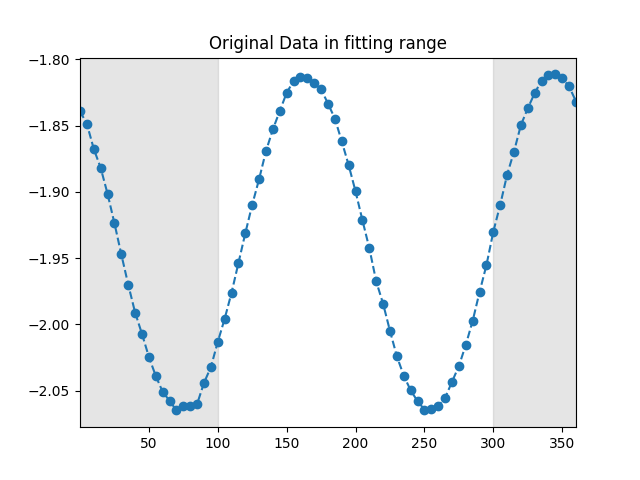
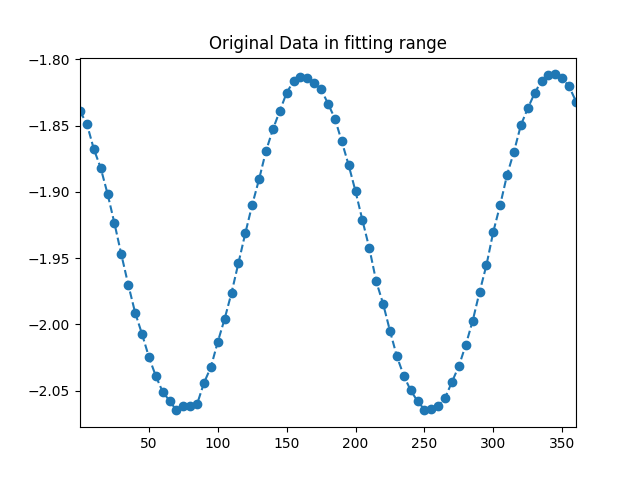
added control of averages to allow for more restricted ranges
issues with scale_est: tested it with latest 10/26 data and it was negative, which ruins phi estimates and messes with bounds.

Changed region(s): [[0.125, 0.125, 0.3438, 0.9062], [0.75, 0.125, 0.9062, 0.9062]]

diff --git a/Polarization_calc.py b/Polarization_calc.py
@@ -157,8 +157,19 @@ class pol_analysis:
             else:
                 #maxs
                 extrema[1].append(self.fit_data[i])
-        avgs = [np.mean(extrema[0]),np.mean(extrema[1])]
-        scale_est = avgs[0]+avgs[1]
+
+        # need to account for when there is not a minima or maxima in the range --> change how we assign avgs
+        if (len(extrema[0])) == 0:
+            # there were no minima in the range
+            avgs = [0, np.mean(extrema[1])]
+        elif (len(extrema[1])) == 0:
+            # there were no maxima in the range
+            avgs = [np.mean(extrema[0]), 0]
+        else:
+            # there were both minima and maxima in the range
+            avgs = [np.mean(extrema[0]),np.mean(extrema[1])]
+
+        scale_est = avgs[0]+avgs[1] # if we change how we assign avgs, then we don't need to change scale_est
         phis = []
         for i in [0,1]:
             for val in extrema[i]:
@@ -170,7 +181,7 @@ class pol_analysis:
                         phis.append(0)
                     
                 else:
-                    if val/scale_est<1:
+                    if val/scale_est <= 1:
                         phis.append(E2_max_inv(scale_est,val))
                     else:
                         #Then max is larger than 1 so assume scale/measurment err
@@ -186,6 +197,7 @@ class pol_analysis:
         # plt.show()
         self.phi_est = phi_est
         self.scale_est = scale_est
+        print(scale_est)
 
     def fit_phi(self):
         bound = ([self.phi_est-5*np.pi/180, -np.pi/2 , self.scale_est*0.8],[self.phi_est+5*np.pi/180, np.pi/2, self.scale_est*1.2])
